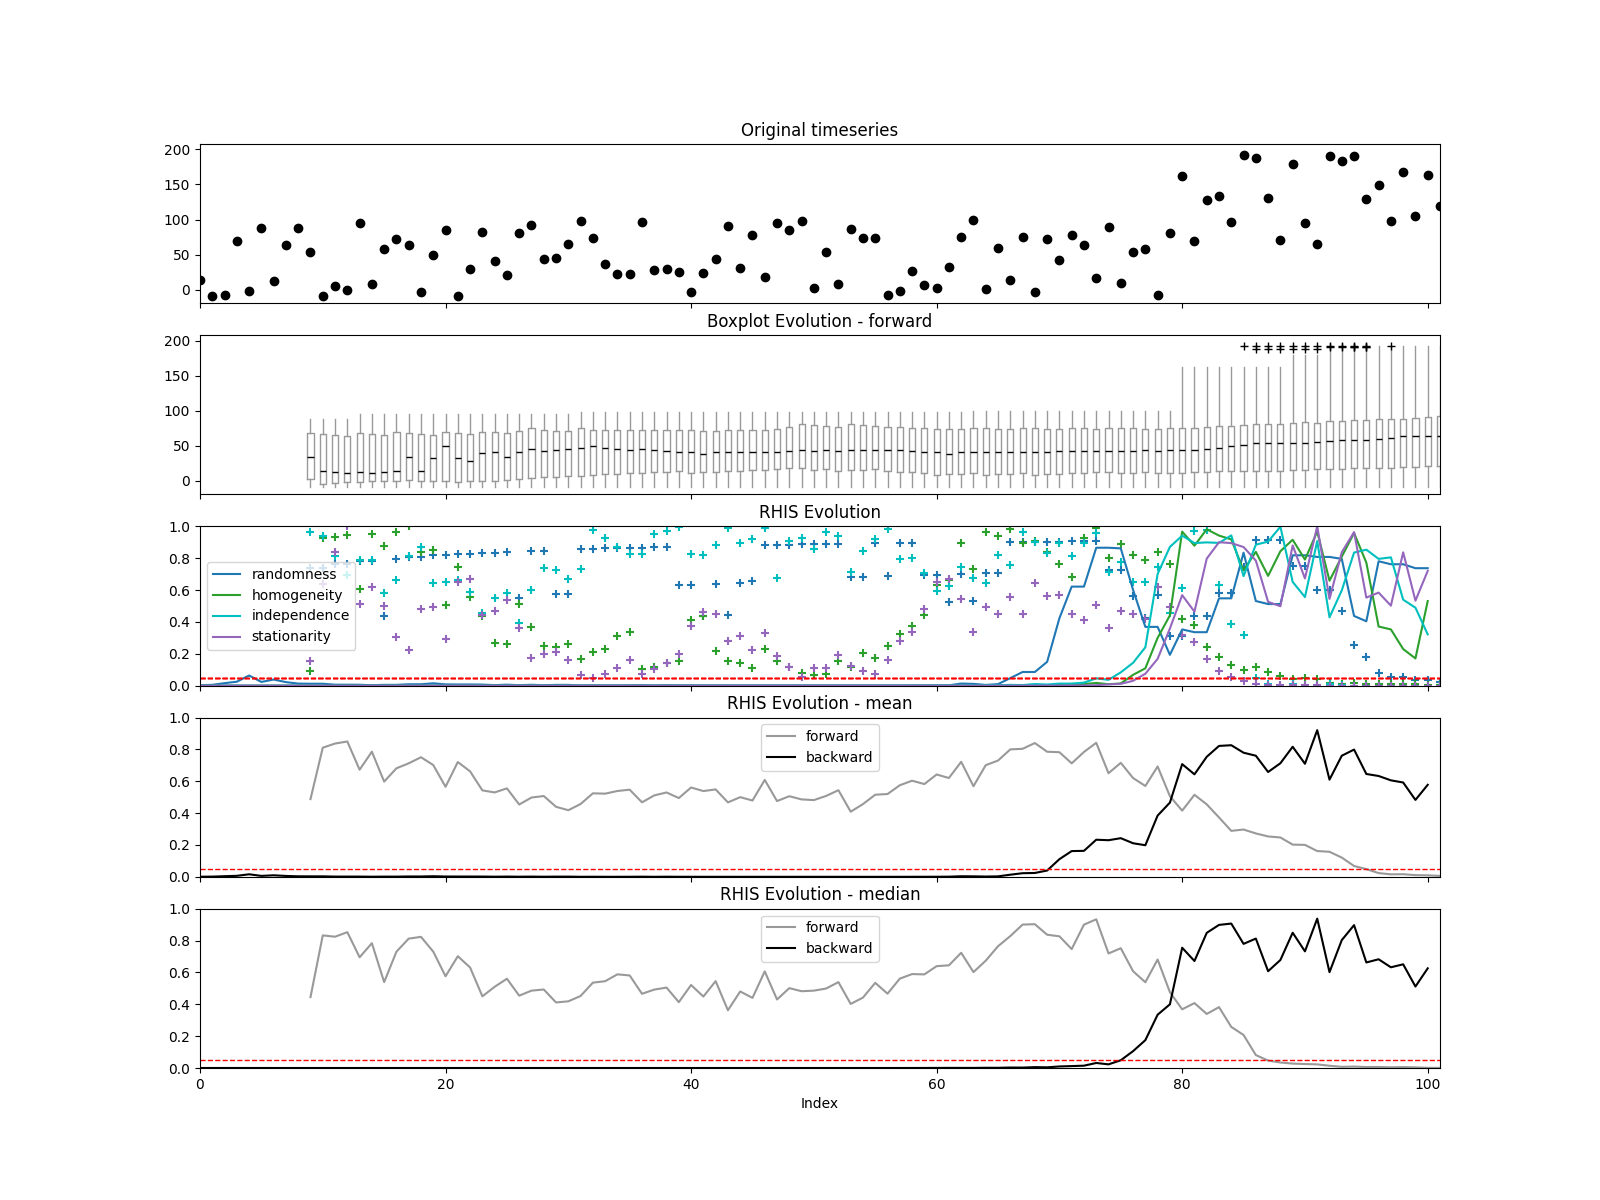
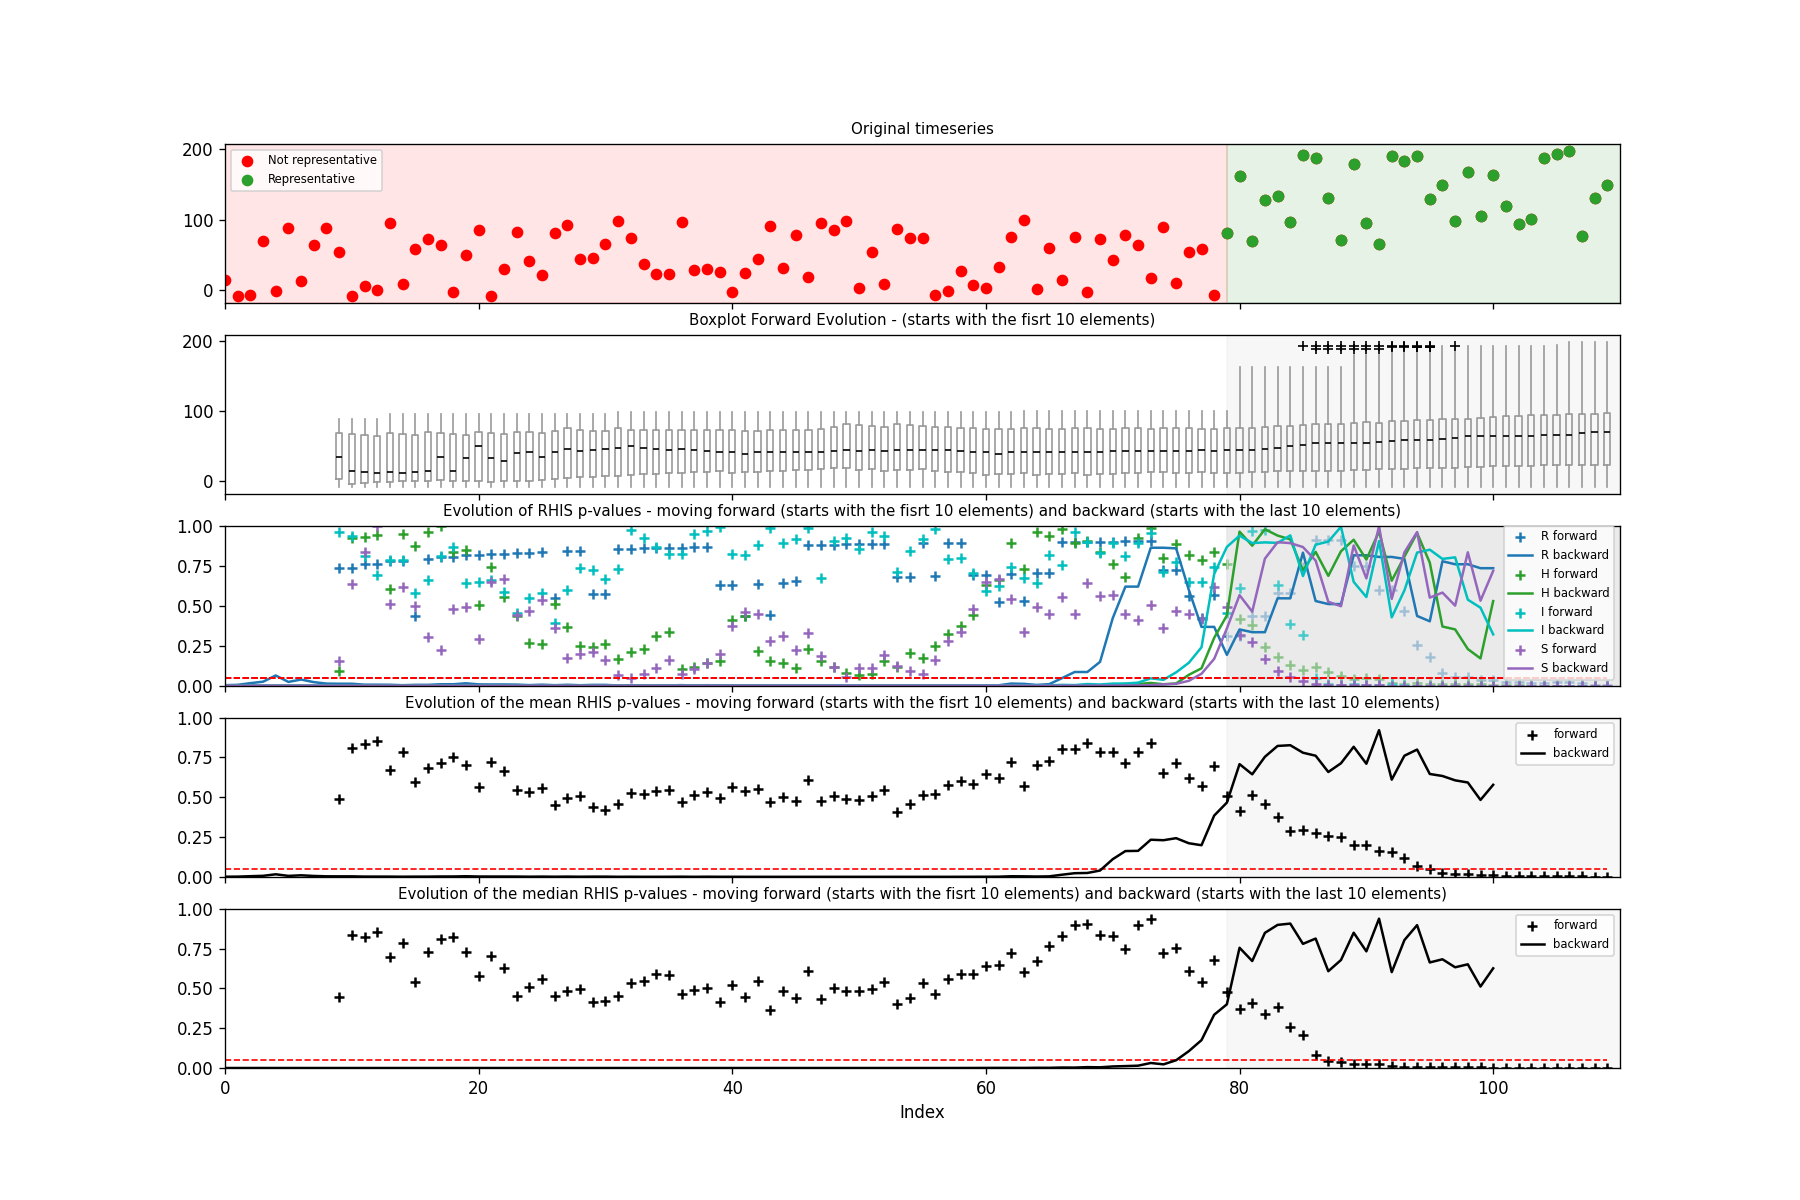
feat: new function, return the representative data

Changed region(s): [[0.0938, 0.0925, 0.9062, 0.9558], [0.0938, 0.2775, 0.125, 0.37]]

diff --git a/src/rhis_timeseries/__main__.py b/src/rhis_timeseries/__main__.py
@@ -4,30 +4,44 @@ from os.path import abspath, dirname, join
 
 import matplotlib.pyplot as plt
 import numpy as np
+import pandas as pd
 
 from rhis_timeseries.evolution.data import slices_incr_len
 from rhis_timeseries.evolution.rhis import rhis_evolution
+from rhis_timeseries.representative.most_recent import representative_slice
 
 
-def main():
+def main():  # noqa: PLR0915
     ROOTPATH = dirname(abspath(__file__))
-    print(ROOTPATH)
     EXAMPLE_PLOTS = join(ROOTPATH, "example_plots/")
+    test_start = 10
+    figtitle_fontsize = 9
+    legend_fontsize = 7
+    alpha_repr_ts = 0.1
+    alpha_repr_stat = 0.3
 
     rng = np.random.default_rng(seed=555)
     dataset = [list(rng.uniform(-10., 100., 80)), list(rng.uniform(50., 200., 30))]
     ts = np.concatenate((dataset[0], dataset[1]))
 
-    slices = slices_incr_len(ts, 10)
+    # ts = np.array(pd.read_csv('./data/BigSiouxAnnualQ.csv')['Y'])
+
+    reprsentative_slice = representative_slice(ts)
+
+    slices = slices_incr_len(ts, test_start)
 
     x_ts = range(len(ts))
     x_rhis_fw = range(9, len(ts))
     x_rhis_bw = range(len(ts) - 9)
     x_pvalue_lim = range(len(ts))
 
-    fig, axes = plt.subplots(5, 1, sharex=True, figsize=(16, 12))
-    axes[0].scatter(x_ts, ts, color='k')
-    axes[0].set_title("Original timeseries")
+    fig, axes = plt.subplots(5, 1, sharex=True, figsize=(15, 10), dpi=100)
+    axes[0].axvspan(0, reprsentative_slice[0][0], color='r', alpha=alpha_repr_ts)
+    axes[0].scatter(x_ts, ts, color='r', label='Not representative')
+    axes[0].axvspan(reprsentative_slice[0][0], axes[0].get_xlim()[1], color='green', alpha=alpha_repr_ts)
+    axes[0].scatter(reprsentative_slice[0], reprsentative_slice[1], color='tab:green', label='Representative')
+    axes[0].set_title("Original timeseries", fontsize=figtitle_fontsize)
+    axes[0].legend(fontsize=legend_fontsize)
 
     axes[1].boxplot(slices,
                     positions=range(9, len(ts)),
@@ -41,11 +55,12 @@ def main():
                     boxprops={'color': '0.6'},
                     whiskerprops={'color': '0.6'},
                     )
-    axes[1].set_title("Boxplot Evolution - forward")
+    axes[1].axvspan(reprsentative_slice[0][0], axes[0].get_xlim()[1], color='0.9', alpha=alpha_repr_stat)
+    axes[1].set_title(f"Boxplot Forward Evolution - (starts with the fisrt {test_start} elements)",
+                      fontsize=figtitle_fontsize)
 
     modes = ['raw', 'mean', 'median']
-    hyps = [('randomness', 'tab:blue'), ('homogeneity', 'tab:green'),
-            ('independence', 'c'), ('stationarity', 'tab:purple')]
+    hyps = [('R', 'tab:blue'), ('H', 'tab:green'), ('I', 'c'), ('S', 'tab:purple')]
 
     counter = 2
     for mode in modes:
@@ -58,36 +73,45 @@ def main():
             for hyp, c in hyps:
                 plot_ts = evol_rhis_fw[hyp]
                 plot_ts_inv = evol_rhis_bw[hyp]
-                axes[counter].scatter(x_rhis_fw, plot_ts, color=c, marker='+')
-                axes[counter].plot(x_rhis_bw, plot_ts_inv[::-1], color=c, label=hyp)
                 axes[counter].plot(x_pvalue_lim, 0.05 * np.ones(len(x_pvalue_lim)), '--', color='r', linewidth=1.0)
+                axes[counter].axvspan(reprsentative_slice[0][0], axes[0].get_xlim()[1], color='0.9', alpha=alpha_repr_stat)
+                axes[counter].scatter(x_rhis_fw, plot_ts, color=c, marker='+', label=hyp + ' forward')
+                axes[counter].plot(x_rhis_bw, plot_ts_inv[::-1], color=c, label=hyp + ' backward')
                 axes[counter].set_ylim(0, 1)
-                axes[counter].set_xlim(0, len(x_rhis_fw))
-                axes[counter].legend()
-                axes[counter].set_title("RHIS Evolution")
+                axes[counter].set_xlim(0, len(ts))
+                axes[counter].legend(ncols=1, fontsize=legend_fontsize)
+                axes[counter].set_title(
+                    f"Evolution of RHIS p-values - moving forward "
+                    f"(starts with the fisrt {test_start} elements) "
+                    f"and backward (starts with the last {test_start} elements)",
+                    fontsize=figtitle_fontsize)
 
             counter += 1
 
         else:
             plot_ts = evol_rhis_fw['rhis_' + mode]
             plot_ts_inv = evol_rhis_bw['rhis_' + mode]
-            axes[counter].plot(x_rhis_fw, plot_ts, label='forward', color='0.6')
-            axes[counter].plot(x_rhis_bw, plot_ts_inv[::-1], label='backward', color='k')
             axes[counter].plot(x_pvalue_lim, 0.05 * np.ones(len(x_pvalue_lim)), '--', color='r', linewidth=1.0)
+            axes[counter].axvspan(reprsentative_slice[0][0], axes[0].get_xlim()[1], color='0.9', alpha=alpha_repr_stat)
+            axes[counter].scatter(x_rhis_fw, plot_ts, marker='+', label='forward', color='k')
+            axes[counter].plot(x_rhis_bw, plot_ts_inv[::-1], label='backward', color='k')
             axes[counter].set_ylim(0, 1)
-            axes[counter].set_xlim(0, len(x_rhis_fw))
-            axes[counter].legend()
-            axes[counter].set_title(F"RHIS Evolution - {mode}")
+            axes[counter].set_xlim(0, len(ts))
+            axes[counter].legend(fontsize=legend_fontsize)
+            axes[counter].set_title(
+                f"Evolution of the {mode} RHIS p-values - moving forward "
+                f"(starts with the fisrt {test_start} elements) and backward "
+                f"(starts with the last {test_start} elements)",
+                fontsize=figtitle_fontsize)
 
             ax = 4
             if counter == ax:
                 axes[counter].set_xlabel('Index')
 
             counter += 1
-
-    plt.savefig(f"{EXAMPLE_PLOTS}representativeness_evolution.png")
+    plt.subplots_adjust(hspace=0.2)
+    plt.savefig(f"{EXAMPLE_PLOTS}representativeness_evolution.png", dpi=120)
     plt.show()
-
 
 if __name__ == "__main__":
     main()

diff --git a/src/rhis_timeseries/evolution/rhis.py b/src/rhis_timeseries/evolution/rhis.py
@@ -17,7 +17,8 @@ if TYPE_CHECKING:
 
 def rhis_evolution(
         ts: TimeSeriesFlex,
-        mode: str = 'raw',*,
+        mode: str = 'raw',
+        slice_start: int = 10,*,
         forward: bool = False,
         bidirectional: bool = False,
         ) -> dict[str, list[float | int]]:
@@ -59,10 +60,10 @@ def rhis_evolution(
         Example:
 
             rhis_evol = {
-                'randomness': [0.556, 0.265, 0.945, 0.159],
-                'homogeneity': [0.112, 0.232, 0.284, 0.492],
-                'independence': [0.253, 0.022, 0.248, 0.995],
-                'stationarity': [0.534, 0.003, 0.354, 0.009],
+                'r': [0.556, 0.265, 0.945, 0.159],
+                'h': [0.112, 0.232, 0.284, 0.492],
+                'i': [0.253, 0.022, 0.248, 0.995],
+                's': [0.534, 0.003, 0.354, 0.009],
             }
     ---------------------------------------------------------------------------
     """
@@ -72,17 +73,17 @@ def rhis_evolution(
         data = ts[:]
         direction = 'forward'
 
-    slices = slices_incr_len(data, 10)
+    slices = slices_incr_len(data, slice_start)
     all_slices = [slices]
     directions = [direction,]
 
     result = {}
     if bidirectional:
-        fw_slices = slices_incr_len(ts, 10)
+        fw_slices = slices_incr_len(ts, slice_start)
         all_slices.append(fw_slices)
         directions.append('forward')
 
-    hyps = ['randomness', 'homogeneity', 'independence', 'stationarity']
+    hyps = ['R', 'H', 'I', 'S']
     for i in range(len(all_slices)):
         ps = [[], [], [], []]
         for ts_slice in all_slices[i]:
@@ -100,14 +101,18 @@ def rhis_evolution(
 
         result[directions[i]] = rhis_evol
 
-    return result
+    return result # TODO (Marcelo): make it also return the start and end index of the series  # noqa: TD003
 
 
 if __name__ == '__main__':
+    import pandas as pd
+
+    ts = pd.read_csv('./data/BigSiouxAnnualQ.csv')['Y']
+    ts1 = np.array(ts)
     rng = np.random.default_rng(seed=30)
 
-    ts = [list(rng.uniform(-10.0, 100.0, 80)), list(rng.uniform(30.0, 200.0, 30))]
-    ts1 = np.concatenate((ts[0], ts[1]))
+    # ts = [list(rng.uniform(-10.0, 100.0, 80)), list(rng.uniform(30.0, 200.0, 30))]
+    # ts1 = np.concatenate((ts[0], ts[1]))
 
     slices = slices_incr_len(ts1, 5)
     plt.figure(figsize=(8, 6))
@@ -119,12 +124,12 @@ if __name__ == '__main__':
     rhis_evol = rhis_evolution(ts1, 'median', bidirectional=True)
     rhis_evol_bw = rhis_evol['backward']
     rhis_evol_fw = rhis_evol['forward']
-    # rhis_evol_fw = rhis_evolution(ts1, 'median', forward=True)['forward']
+
     plt.figure(figsize=(12, 6))
-    hyps = ['randomness', 'homogeneity', 'independence', 'stationarity']
+    hyps = ['R', 'H', 'I', 'S']
     hyps = ['rhis_median',]
     for hyp in hyps:
-        plt.plot(rhis_evol_bw[hyp], label='backward')
+        plt.plot(rhis_evol_bw[hyp][::-1], label='backward')
         plt.plot(rhis_evol_fw[hyp], label='forward')
 
     plt.legend()

diff --git a/src/rhis_timeseries/representative/most_recent.py b/src/rhis_timeseries/representative/most_recent.py
@@ -1,0 +1,68 @@
+from __future__ import annotations
+
+from typing import TYPE_CHECKING
+
+import numpy as np
+
+from rhis_timeseries.evolution.rhis import rhis_evolution
+
+if TYPE_CHECKING:
+    from rhis_timeseries.types.timeseries_types import TimeSeriesFlex
+
+
+def representative_slice(ts: TimeSeriesFlex, mode: str = 'median', start_slice: int = 10) -> TimeSeriesFlex:
+    data = np.array(ts)
+
+    rhis_evol = rhis_evolution(ts, mode, start_slice, bidirectional=True)
+
+    key = f"rhis_{mode}"
+    bw_pvalues = rhis_evol['backward'][key]
+    fw_pvalues = rhis_evol['forward'][key]
+
+    n_fill = start_slice - 1
+
+    if isinstance(bw_pvalues, list):
+        bw_pvalues = np.array(bw_pvalues)
+    if isinstance(fw_pvalues, list):
+        fw_pvalues = np.array(fw_pvalues)
+
+    mask = bw_pvalues[:-n_fill][::-1] > fw_pvalues[:-n_fill]
+
+    if mask[-1]:
+        bw_fill = np.ones(n_fill)
+    else:
+        bw_fill = np.zeros(n_fill)
+
+    if mask[0]:
+        fw_fill = np.ones(n_fill)
+    else:
+        fw_fill = np.zeros(n_fill)
+
+    mask = np.append(mask, bw_fill)
+    mask = np.append(fw_fill, mask)
+
+    last_index = len(data)
+
+    cut_index = -1
+    while mask[last_index + cut_index]:
+        cut_index -= 1
+
+    repr_data = data[cut_index:]
+    repr_index = range(len(ts) - len(repr_data), len(ts))
+
+    return repr_index, repr_data
+
+if __name__ == "__main__":
+    import matplotlib.pyplot as plt
+    import pandas as pd
+
+    ts = pd.read_csv('./data/BigSiouxAnnualQ.csv')['Y']
+
+    repr_ts = representative_slice(np.array(ts))
+
+    plt.figure()
+    plt.scatter(range(len(ts)), ts, color='red')
+    plt.scatter(repr_ts[0], repr_ts[1], color='green')
+    plt.show()
+
+
